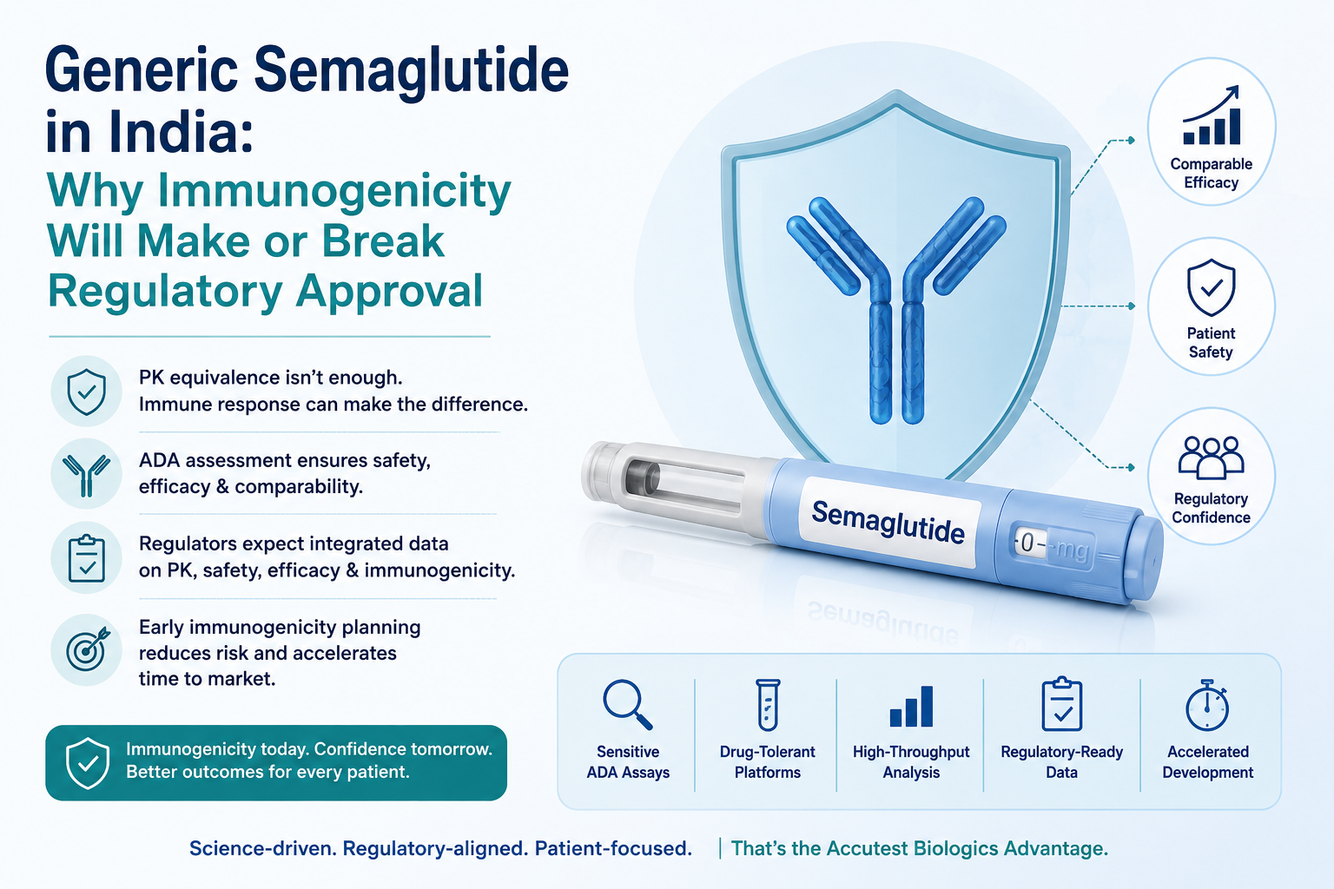
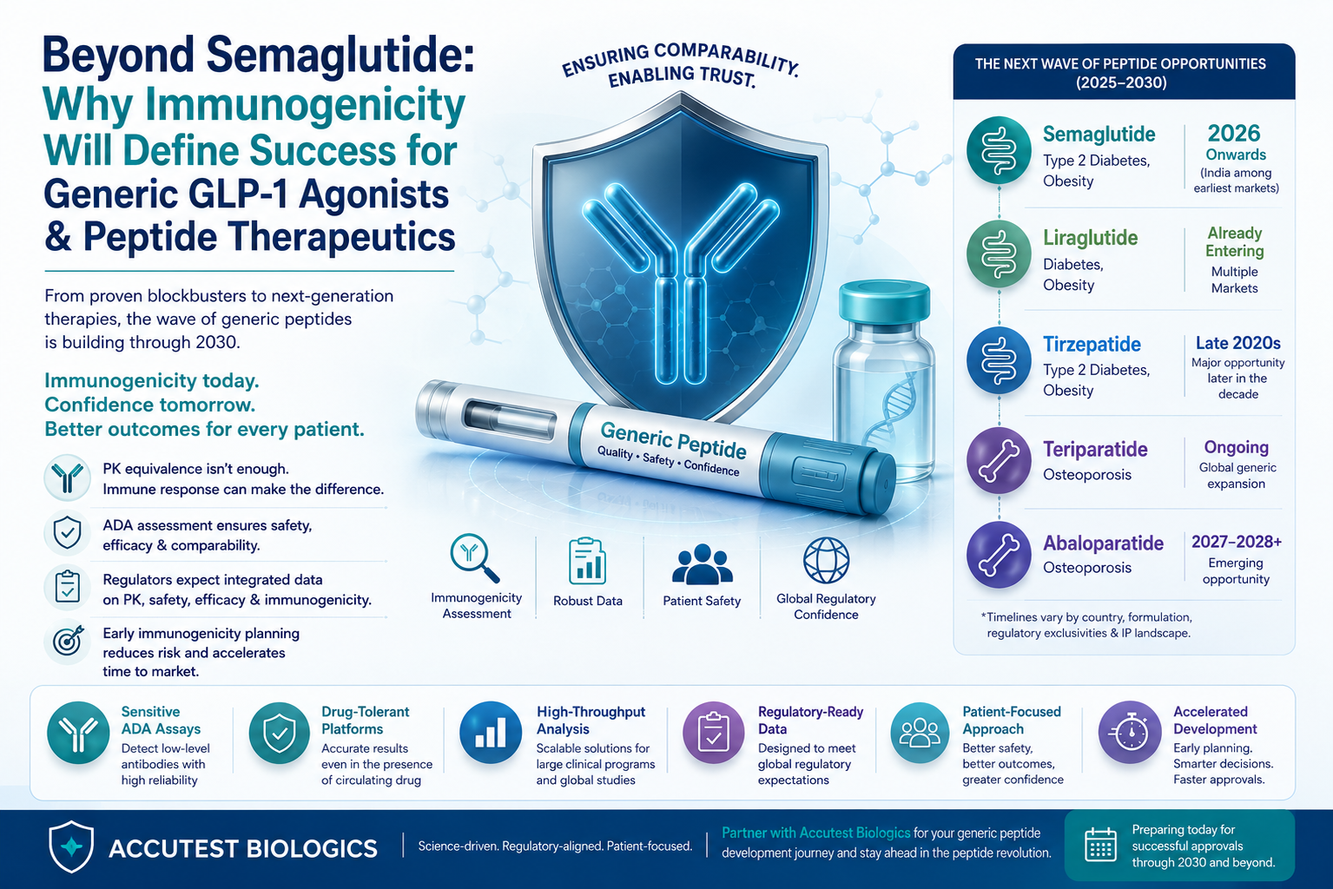
update blog

diff --git a/blogpage.html b/blogpage.html
@@ -7,11 +7,11 @@
     <meta http-equiv="X-UA-Compatible" content="IE=edge">
     <meta name="viewport" content="width=device-width, initial-scale=1.0, maximum-scale=1">
     <meta name="description"
-        content="Generic Semaglutide in India: Why Immunogenicity Will Make or Break Regulatory Approval">
-    <meta name="keywords" content="Semaglutide, Immunogenicity, Accutest Biologics, ADA evaluation">
+        content="Beyond Semaglutide: Why Immunogenicity Will Define Success for Generic GLP-1 Agonists and Peptide Therapeutics">
+    <meta name="keywords" content="Semaglutide, Immunogenicity, Accutest Biologics, ADA evaluation, Peptide Therapeutics, GLP-1">
     <meta name="author" content="Accutest">
     <!-- Page Title -->
-    <title>Blog - Generic Semaglutide in India | Accutest</title>
+    <title>Blog - Beyond Semaglutide | Accutest</title>
     <!-- Favicon Icon -->
     <link rel="shortcut icon" type="image/x-icon" href="images/whitefavicon.png">
     <!-- Google Fonts Css-->
@@ -122,6 +122,7 @@
             overflow-x: auto;
             border-radius: 10px;
             box-shadow: 0 5px 20px rgba(0, 0, 0, 0.05);
+            border: 1px solid #e0e0e0;
         }
 
         .blog-table {
@@ -131,26 +132,33 @@
             background-color: #fff;
         }
 
+        .blog-table thead tr {
+            background: linear-gradient(90deg, #007d55 0%, #3aa76d 50%, #89d343 100%);
+        }
+
         .blog-table th {
-            background: linear-gradient(45deg, #007d55 0%, #3aa76d 25%, #3aa76d 50%, #3aa76d 75%, #d5ed3b 100%);
             color: #fff;
-            padding: 18px 25px;
+            padding: 15px 20px;
             text-align: center;
-            font-size: 18px;
+            font-size: 15px;
             font-family: "Segoe UI", sans-serif;
-            font-weight: 600;
+            font-weight: 700;
+            border-right: 1px solid rgba(255, 255, 255, 0.2);
+            vertical-align: middle;
+            background: transparent;
+        }
+
+        .blog-table th:last-child {
+            border-right: none;
         }
 
         .blog-table td {
-            padding: 20px 30px;
-            border-bottom: 2px solid #f0f0f0;
+            padding: 20px 20px;
+            border: 1px solid #e0e0e0;
             color: #555;
-            font-size: 17px;
-            line-height: 1.8;
-        }
-
-        .blog-table tr:last-child td {
-            border-bottom: none;
+            font-size: 14px;
+            line-height: 1.6;
+            vertical-align: middle;
         }
 
         .blog-table tr:hover td {
@@ -160,8 +168,7 @@
         .blog-table td:first-child {
             font-weight: 700;
             color: #333;
-            width: 30%;
-            border-right: 1px solid #f0f0f0;
+            text-align: center;
         }
 
         .blog-intro-lead {
@@ -245,141 +252,173 @@
 
                     <a href="Knowledge-Center.html#podcast" class="blog-back-btn"><i class="fas fa-arrow-left"></i> Back
                         to Knowledge Center</a>
-                    <h1 class="blog-title">Generic Semaglutide in India: Why Immunogenicity Will Make or Break
-                        Regulatory Approval</h1>
+                    <h1 class="blog-title">Beyond Semaglutide: Why Immunogenicity Will Define Success for Generic GLP-1 Agonists and Peptide Therapeutics</h1>
 
+                    <p class="blog-intro-lead">The next five years are poised to reshape the global peptide therapeutics market. As patents protecting several blockbuster peptide drugs begin to expire, pharmaceutical companies across the worldincluding Indiaare accelerating the development of generic and follow-on peptide products.</p>
+                    
+                    <p class="blog-text" style="margin-top: 30px;">While Semaglutide has become the first major catalyst, it is only the beginning. A new wave of high-value peptide therapeutics is approaching market exclusivity loss, creating unprecedented opportunities for manufacturers prepared to navigate increasingly rigorous regulatory expectations. However, alongside this commercial opportunity comes a critical scientific challenge:</p>
+                    <p class="blog-text"><strong>Immunogenicity.</strong></p>
+                    <p class="blog-text">For modern peptide therapeutics, demonstrating pharmacokinetic (PK) comparability alone is no longer enough. Regulatory agencies increasingly expect robust comparative immunogenicity assessments to ensure that generic peptides match the safety, efficacy, and clinical performance of their reference products.</p>
 
+                    <h2 class="blog-subtitle">The Generic Peptide Opportunity</h2>
+                    <p class="blog-text">Between 2025 and 2030, several commercially important peptide therapeutics are expected to present opportunities for generic or follow-on development in different global markets.</p>
+                    <p class="blog-text">Among the most significant are:</p>
 
-                    <p class="blog-intro-lead">India's Semaglutide (Ozempic® & Wegovy®) patent expired in March 2026,
-                        and pharmaceutical companies are racing to enter the GLP-1 market. But here's what many
-                        developers are learning the hard way: pharmacokinetic comparability alone won't cut it anymore.
-                        Immunogenicity assessment particularly Anti-Drug Antibody (ADA) evaluation has moved from
-                        afterthought to strategic imperative.</p>
+                    <div class="blog-table-container">
+                        <table class="blog-table">
+                            <thead>
+                                <tr>
+                                    <th>Molecule</th>
+                                    <th>Therapeutic Area</th>
+                                    <th>Expected Generic Opportunity *</th>
+                                    <th>Estimated Global Market (Peak Sales)</th>
+                                    <th>Why Immunogenicity Matters</th>
+                                </tr>
+                            </thead>
+                            <tbody>
+                                <tr>
+                                    <td>Semaglutide</td>
+                                    <td>Type 2 Diabetes, Obesity</td>
+                                    <td>Already generic in India (patent expired Mar 20, 2026); core patents expiring in ~10 countries (China, Brazil, Turkey, Canada, South Africa) by end of 2026. US/UK/EU protected until ~2031+</td>
+                                    <td>Combined Ozempic/Wegovy sales of $26bn in 2024, growing ~40% annually</td>
+                                    <td>Long-acting modified peptide with potential immunogenicity arising from manufacturing variability, impurities, and formulation differences.</td>
+                                </tr>
+                                <tr>
+                                    <td>Liraglutide</td>
+                                    <td>Type 2 Diabetes, Obesity</td>
+                                    <td>Already generic in multiple markets (Victoza patent expired ~2023 in US/EU)</td>
+                                    <td>~USD 3–5 Billion (peak, prior to GLP-1 successor cannibalization)</td>
+                                    <td>Chronic administration necessitates robust comparative ADA assessment to demonstrate clinical comparability.</td>
+                                </tr>
+                                <tr>
+                                    <td>Tirzepatide</td>
+                                    <td>Type 2 Diabetes, Obesity</td>
+                                    <td>US: earliest generic entry projected around December 19, 2028 (Mounjaro) / December 20, 2027 (Zepbound); India composition patents run to ~2031–2033, later than originally stated</td>
+                                    <td>Mounjaro and Zepbound had combined sales of nearly $16 billion in 2024</td>
+                                    <td>Structurally more complex than first-generation GLP-1 agonists, requiring comprehensive immunogenicity evaluation.</td>
+                                </tr>
+                                <tr>
+                                    <td>Teriparatide</td>
+                                    <td>Osteoporosis</td>
+                                    <td>Already off-patent  US patent expired 2022; a generic version was approved as teriparatide by Apotex on November 16, 2023. Generic opportunities expanding globally.</td>
+                                    <td>~USD 1–2 Billion</td>
+                                    <td>Daily administration and peptide complexity make ADA assessment an important component of comparability.</td>
+                                </tr>
+                                <tr>
+                                    <td>Abaloparatide</td>
+                                    <td>Osteoporosis</td>
+                                    <td>Emerging opportunity as exclusivity expires across regions. US composition patent expiration dates ranging from 2027 to 2028; earliest date for generic entry estimated October 3, 2027; no generic approved yet as of mid-2026</td>
+                                    <td>~USD 0.5–1 Billion</td>
+                                    <td>Structural modifications and long-term treatment support the need for comparative immunogenicity assessment.</td>
+                                </tr>
+                            </tbody>
+                        </table>
+                    </div>
+                    <p class="blog-text"><em>*Patent expiry and commercial launch timelines vary by country, formulation, regulatory exclusivities, and intellectual property landscape.</em></p>
+                    <p class="blog-text">Although these molecules differ in structure and therapeutic application, they share one important characteristic: <span style="color: #000; font-weight: 800;">their clinical success depends on maintaining immunological comparability with the innovator product.</span></p>
 
-                    <h2 class="blog-subtitle">The Immunogenicity Challenge</h2>
-                    <p class="blog-text">Semaglutide is a chemically synthesized peptide, not a biologic. Yet it's far
-                        from a simple small molecule. Its structural modifications designed to extend half-life and
-                        improve stability create immunogenic potential that regulators now take seriously.</p>
-                    <p class="blog-text">Even subtle manufacturing differences can trigger immune responses: Sequence
-                        variants (truncations, deletions), Oxidative modifications, Process-related impurities,
-                        Formulation differences</p>
-
-                        <p class="blog-text">
-
-                    Any of these can alter how the immune system "sees" the molecule, potentially generating antibodies
-                    that affect drug exposure, efficacy, or safety:</p>
-
-                   
+                    <h2 class="blog-subtitle">Why Peptides Are Different</h2>
+                    <p class="blog-text">Unlike conventional small-molecule drugs, peptide therapeutics possess structural complexity that makes them more susceptible to subtle manufacturing-related variations.</p>
+                    <p class="blog-text">Differences in peptide synthesis, purification, formulation, storage conditions, or degradation pathways may introduce:</p>
+                    <ul class="blog-list">
+                        <li>Sequence variants and truncations</li>
+                        <li>Oxidative or chemical modifications</li>
+                        <li>Process-related impurities</li>
+                        <li>Peptide aggregation</li>
+                        <li>Formulation-related differences</li>
+                    </ul>
+                    <p class="blog-text">Even when these changes appear analytically insignificant, they can alter how the immune system recognizes the molecule, potentially triggering Anti-Drug Antibody (ADA) responses that affect pharmacokinetics, efficacy, or patient safety.</p>
 
                     <h2 class="blog-subtitle">Why PK Equivalence Isn't Enough</h2>
-                    <p class="blog-text">For conventional generics, bioequivalence studies are typically sufficient.
-                        Peptide therapeutics operate differently.</p>
-                    <p class="blog-text">Two products can show identical PK profiles yet produce divergent immune
-                        responses. The reason: immunogenicity depends on factors that PK curves don't
-                        capture manufacturing processes, impurity profiles, storage conditions, formulation excipients.
-                    </p>
-                    <p class="blog-text">Regulators globally have recognized this gap. India's regulatory framework is
-                        following suit, increasingly expecting <span style="color: black; font-weight: 800;">integrated comparability data</span> that spans PK, safety,
-                        efficacy, and immunogenicity. Companies relying on PK-only strategies risk regulatory queries,
-                        delays, or rejection.</p>
+                    <p class="blog-text">Traditional generic drug development has relied heavily on demonstrating bioequivalence through PK studies. For peptide therapeutics, however, PK tells only part of the story.</p>
+                    <p class="blog-text">Two products may exhibit nearly identical PK profiles while generating different immune responses because immunogenicity is influenced by factors that PK studies cannot fully capture, including manufacturing processes, impurity profiles, aggregation, excipient composition, and product stability.</p>
+                    <p class="blog-text">Recognizing this, regulators worldwide are placing increasing emphasis on integrated comparability packages that include analytical characterization, PK, safety, efficacy, and immunogenicity.</p>
+                    <p class="blog-text">Companies relying solely on PK equivalence risk regulatory questions, additional study requests, delayed approvals, or costly redevelopment.</p>
 
                     <h2 class="blog-subtitle">What Regulators Want to Know</h2>
-                    <p class="blog-text">Comparative immunogenicity studies address three critical questions:</p>
-                    <ol class="blog-list" style="list-style-type: decimal; padding-left: 20px;">
-                        <li style="list-style-type: decimal;">Does the generic induce antibodies at rates comparable to
-                            the reference product?</li>
-                        <li style="list-style-type: decimal;">Do those antibodies affect drug exposure or therapeutic
-                            response?</li>
-                        <li style="list-style-type: decimal;">Are there emerging safety signals tied to immune
-                            responses?</li>
-                    </ol>
-                    <p class="blog-text">Answering these proactivelyrather than reactively during reviewcan shave
-                        months off development timelines.</p>
+                    <p class="blog-text">Comparative immunogenicity studies help answer several critical regulatory questions:</p>
+                    <ul class="blog-list">
+                        <li>Does the follow-on peptide induce antibodies at a rate comparable to the reference product?</li>
+                        <li>Do these antibodies alter drug exposure or clinical efficacy?</li>
+                        <li>Are neutralizing antibodies generated?</li>
+                        <li>Are there emerging safety concerns associated with immune responses?</li>
+                    </ul>
+                    <p class="blog-text">Answering these questions proactively can significantly streamline regulatory review while reducing development risk.</p>
 
-                    <h2 class="blog-subtitle">Common Pitfalls in ADA Programs</h2>
-                    <p class="blog-text">Several recurring mistakes derail Semaglutide immunogenicity programs:</p>
+                    <h2 class="blog-subtitle">Common Pitfalls in Generic Peptide Immunogenicity Programs</h2>
+                    <p class="blog-text">Many peptide development programs encounter avoidable challenges that compromise regulatory readiness.</p>
 
                     <div class="blog-table-container">
                         <table class="blog-table">
                             <thead>
                                 <tr>
                                     <th>Challenge</th>
-                                    <th>Consequence</th>
+                                    <th>Potential Impact</th>
                                 </tr>
                             </thead>
                             <tbody>
                                 <tr>
-                                    <td>Late planning</td>
-                                    <td>Missed opportunities to optimize study design and sample collection</td>
+                                    <td>Late immunogenicity planning</td>
+                                    <td>Missed opportunities for optimized clinical study design</td>
                                 </tr>
                                 <tr>
-                                    <td>Inadequate assay sensitivity</td>
-                                    <td>Failure to detect low-level immune responses</td>
+                                    <td>Insufficient assay sensitivity</td>
+                                    <td>Failure to detect low-level ADA responses</td>
                                 </tr>
                                 <tr>
                                     <td>Drug interference</td>
-                                    <td>Circulating Semaglutide masks ADA signals without drug-tolerant assay design
-                                    </td>
+                                    <td>Circulating drug masks ADA detection without drug-tolerant assay design</td>
                                 </tr>
                                 <tr>
-                                    <td>Regulatory misalignment</td>
-                                    <td>Study data doesn't meet current expectations</td>
+                                    <td>Inadequate assay validation</td>
+                                    <td>Regulatory deficiencies during submission</td>
+                                </tr>
+                                <tr>
+                                    <td>Poor regulatory alignment</td>
+                                    <td>Additional agency questions and delayed approvals</td>
                                 </tr>
                                 <tr>
                                     <td>Compressed timelines</td>
-                                    <td>Quality compromised under time pressure</td>
+                                    <td>Increased development risk and compromised data quality</td>
                                 </tr>
                             </tbody>
                         </table>
                     </div>
 
-                    <h2 class="blog-subtitle">Building an Effective Strategy</h2>
-                    <p class="blog-text">Immunogenicity planning belongs at the <span style="color: black; font-weight: 800;">start</span> of development, not the end. A
-                        robust program includes:</p>
+                    <h2 class="blog-subtitle">Building an Effective Immunogenicity Strategy</h2>
+                    <p class="blog-text">Successful peptide development begins long before clinical sample testing.</p>
+                    <p class="blog-text">An effective immunogenicity program should include:</p>
                     <ul class="blog-list">
-                        <li>Early risk assessment aligned with regulatory guidance</li>
-                        <li>Validated ADA methodologies with defined sensitivity thresholds</li>
-                        <li>Drug-tolerant assay platforms</li>
-                        <li>Rigorous cut-point determination</li>
-                        <li>Comprehensive clinical sample analysis protocols</li>
+                        <li>Early immunogenicity risk assessment aligned with global regulatory guidance</li>
+                        <li>Sensitive and validated ADA assay development</li>
+                        <li>Drug-tolerant assay platforms capable of detecting antibodies in the presence of circulating drug</li>
+                        <li>Scientifically justified cut-point determination</li>
+                        <li>Neutralizing antibody (NAb) assessment where appropriate</li>
+                        <li>Comprehensive clinical sample analysis with robust quality controls</li>
+                        <li>Regulatory-ready documentation supporting global submissions</li>
                     </ul>
-                    <p class="blog-text">Companies that integrate these elements early gain a measurable edge in
-                        regulatory interactions and time-to-market.</p>
+                    <p class="blog-text">Organizations that integrate these elements early are better positioned to accelerate development while minimizing regulatory uncertainty.</p>
 
                     <h2 class="blog-subtitle">The Bigger Picture</h2>
-                    <p class="blog-text">As affordable GLP-1 therapies reach more patients, ensuring their safety and
-                        efficacy is a collective responsibility. Immunogenicity assessment isn't just a regulatory
-                        checkboxit's how we confirm that generic products perform like their reference counterparts and
-                        deliver the outcomes patients expect.</p>
-                    <p class="blog-text">For companies planning generic Semaglutide programs, the message is
-                            clear: <strong> early immunogenicity planning may be the single most important differentiator</strong> between
-                            approval and delay.</p>
+                    <p class="blog-text">The coming decade will witness one of the largest expansions in generic peptide therapeutics, driven by GLP-1 receptor agonists, dual incretin therapies, hormone analogues, and other complex peptide medicines.</p>
+                    <p class="blog-text">As these therapies become more accessible worldwide, ensuring comparable safety and efficacy extends well beyond analytical similarity and PK equivalence. Immunogenicity assessment provides the confidence that follow-on peptide products will perform consistently throughout long-term clinical use.</p>
+                    <p class="blog-text">Companies that incorporate immunogenicity into their development strategy from the outset will be better equipped to meet evolving regulatory expectations, reduce development risk, and achieve faster market entry in an increasingly competitive landscape.</p>
 
-                    <h2 class="blog-subtitle-2">How Accutest Biologics Supports Semaglutide Development</h2>
-                    <p class="blog-text">At Accutest Biologics, we have hands-on experience supporting Semaglutide
-                        Immunogenicity programs through scientifically rigorous and regulatory-aligned ADA testing
-                        solutions.</p>
-                    <p class="blog-text" style="margin-bottom: 15px; margin-top: 15px;"><strong>Our capabilities
-                            include:</strong></p>
+                    <h2 class="blog-subtitle-2">How Accutest Biologics Supports Generic Peptide Development</h2>
+                    <p class="blog-text">At Accutest Biologics, we partner with pharmaceutical and biotechnology companies developing generic GLP-1 receptor agonists and other peptide therapeutics by delivering scientifically rigorous, regulatory-aligned immunogenicity solutions.</p>
+                    <p class="blog-text" style="margin-bottom: 15px; margin-top: 15px; color: #0a3d91;"><strong>Our capabilities include:</strong></p>
                     <ul class="blog-list" style="margin-bottom: 25px;">
-                        <li>Sensitive and robust ADA assay development and validation</li>
-                        <li>High-throughput clinical sample analysis</li>
-                        <li>Optimized drug-tolerant assay platforms</li>
-                        <li>Regulatory-ready data packages</li>
-                        <li>Support for accelerated development timelines</li>
+                        <li style="color: #0a3d91;">ADA assay development and validation</li>
+                        <li style="color: #0a3d91;">Drug-tolerant ADA assay platforms</li>
+                        <li style="color: #0a3d91;">Neutralizing antibody (NAb) assay development</li>
+                        <li style="color: #0a3d91;">High-throughput clinical sample analysis</li>
+                        <li style="color: #0a3d91;">Immunogenicity risk assessment</li>
+                        <li style="color: #0a3d91;">Regulatory-ready data packages</li>
+                        <li style="color: #0a3d91;">Flexible support for accelerated development timelines</li>
                     </ul>
-                    <p class="blog-text">As the Indian Semaglutide market enters a new phase of growth, early
-                        immunogenicity planning may become one of the most important differentiators between
-                        successful and delayed development programs.</p>
-                   
-                        <p class="blog-text">Companies planning generic Semaglutide programs should consider integrating
-                        immunogenicity assessment early in their development strategy to ensure regulatory
-                        readiness, minimize risk, and accelerate time to market.</p>
-                   
-                        <p class="blog-text-2" style="margin-bottom: 0;"><strong>Accutest Biologics supports Semaglutide
-                            development programs with regulatory-aligned ADA testing, drug-tolerant assay platforms,
-                            and accelerated clinical sample analysis. For companies navigating compressed timelines,
-                            early partnership can reduce risk and accelerate market entry.</strong></p>
+                    <p class="blog-text">As the global generic peptide market continues to expand, early investment in immunogenicity is becoming a strategic differentiator rather than a regulatory formality.</p>
+                    <p class="blog-text">Organizations that integrate robust immunogenicity assessment into their development programs will be better positioned to achieve regulatory success, accelerate approvals, and deliver safe, effective peptide therapeutics to patients worldwide.</p>
+                    <p class="blog-text-2" style="margin-bottom: 0; color: #0a3d91;"><strong>Accutest Biologics supports biosimilars, generic peptides’ development programs with regulatory-aligned ADA testing, drug-tolerant assay platforms, and accelerated clinical sample analysis. For companies navigating compressed timelines, early partnership can reduce risk and accelerate market entry.</strong></p>
                 </div>
             </div>
         </div>

diff --git a/Knowledge-Center.html b/Knowledge-Center.html
@@ -1141,7 +1141,7 @@
                 <div class="blog-content-panel">
                     
 
-                    <h3 class="blog-post-title">Generic Semaglutide in India: Why Immunogenicity Will Make or Break Regulatory Approval</h3>
+                    <h3 class="blog-post-title">Beyond Semaglutide: Why Immunogenicity Will Define Success for Generic GLP-1 Agonists and Peptide Therapeutics</h3>
 
                     <a href="blogpage.html" class="blog-read-btn">
                         Read More
